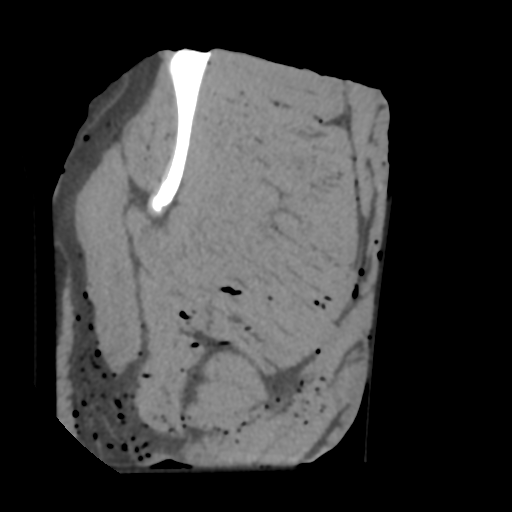
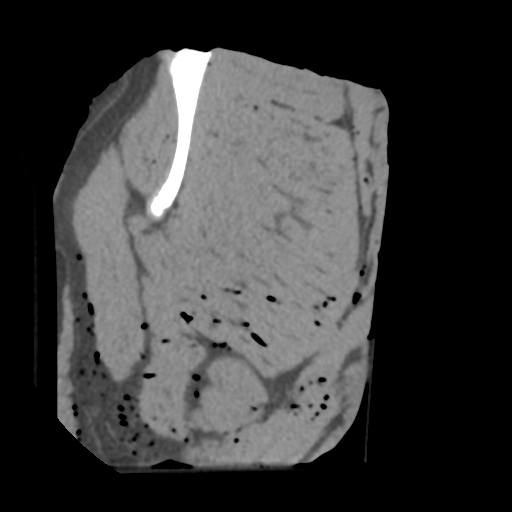
docs(ritk-snap): Record real DICOM series
Record the 409-slice browser run through merged Metis and Moirai bounds with actual orthogonal PNGs and exact provenance.

Item: RITK-SNAP-METIS-001

Refs: backlog.md#RITK-SNAP-METIS-001

diff --git a/crates/ritk-snap/src/render/slice_render.rs b/crates/ritk-snap/src/render/slice_render.rs
@@ -101,7 +101,7 @@ impl SliceRenderer {
     /// # Returns
     /// An [`egui::ColorImage`] of size `[width, height]` (see table above).
     /// This adapter is retained for the eframe host; Métis-facing consumers
-    /// use [`Self::render_rgba`] and receive no egui carrier.
+    /// use `render_rgba` and receive no egui carrier.
     pub fn render(
         volume: &LoadedVolume,
         axis: usize,

diff --git a/docs/manual/dicom-workflow.md b/docs/manual/dicom-workflow.md
@@ -367,33 +367,35 @@ a bounded programmatic `DataTransfer` in one Chromium host, so it demonstrates
 real DICOM decoding and browser presentation but does not close physical
 drag-and-drop, Firefox/WebKit, WebGPU or complete application-window capture.
 
-### Three orthogonal canvases from a bounded real series batch
+### Three orthogonal canvases from the complete bounded real series
 
-To exercise the orthogonal geometry with more than the nine-file smoke, the
-same page accepted the first 64 slices from the saved MRI-DIR series. This is
-the maximum file count admitted by the current Métis browser handoff. RITK
-decoded all 64 files and presented non-black pixels on every canvas after
-reading 33,823,992 bytes:
+To exercise the orthogonal geometry with the complete saved study, the same
+page accepted all 409 slices from the MRI-DIR series in one bounded browser
+`DataTransfer`. RITK decoded 216,156,416 bytes and presented non-black pixels
+on every canvas:
 
 | Canvas | Presented pixels | Non-black pixels |
 | --- | ---: | ---: |
-| axial | 512 × 512 | 125,458 |
-| coronal | 512 × 82 | 20,778 |
-| sagittal | 512 × 82 | 27,467 |
+| axial | 512 × 512 | 124,466 |
+| coronal | 512 × 409 | 106,343 |
+| sagittal | 512 × 409 | 140,317 |
 
-![Actual MRI-DIR CT axial frame from the 64-file browser batch](images/dicom-metis-real-browser-orthogonal-axial.png)
+![Actual MRI-DIR CT axial frame from the 409-file browser batch](images/dicom-metis-real-browser-orthogonal-axial.png)
 
-![Actual MRI-DIR CT coronal frame from the 64-file browser batch](images/dicom-metis-real-browser-orthogonal-coronal.png)
+![Actual MRI-DIR CT coronal frame from the 409-file browser batch](images/dicom-metis-real-browser-orthogonal-coronal.png)
 
-![Actual MRI-DIR CT sagittal frame from the 64-file browser batch](images/dicom-metis-real-browser-orthogonal-sagittal.png)
+![Actual MRI-DIR CT sagittal frame from the 409-file browser batch](images/dicom-metis-real-browser-orthogonal-sagittal.png)
 
 The run's source revisions, byte count, frame hashes and bounds are recorded
 in [`dicom-metis-real-browser-orthogonal.json`](images/dicom-metis-real-browser-orthogonal.json).
-Submitting all 409 slices in one browser drop was rejected before RITK loading
-with `Browser file drop exceeds the bounded file count`. That is an open
-bounded-ingress gap for complete browser studies; the native path above still
-loads the complete series. Closing the browser gap requires an explicit
-directory or multi-batch contract whose series assembly remains in RITK.
+The Métis/Moirai handoff admits at most 512 file entries and 256 MiB of file
+bytes; this public 409-slice study is within both bounds. The capture scope is
+the canvas pixels, excluding browser chrome. It demonstrates actual DICOM
+loading and orthogonal presentation in the Codex in-app Chromium host through
+a programmatic `DataTransfer`; physical drag-and-drop, Firefox/WebKit,
+WebGPU and complete application-window capture remain separate acceptance
+work. The public phantom data is the only committed image source; private
+clinical studies stay local.
 
 ## Build the RITK SNAP executable and installer
 

diff --git a/backlog.md b/backlog.md
@@ -105,7 +105,7 @@
 - Dependency portability increment: Consus HDF5's 32-bit WASM chunk-size threshold is fixed by [Consus PR #74](https://github.com/ryancinsight/consus/pull/74); native 290/290 nextest, strict Clippy, and a `wasm32-unknown-unknown` check pass.
 - Actual-data visual increment (2026-09-11): the native Métis surface was rerun with the public MRI-DIR CT DICOM series; the 1280 × 800 axial/coronal/sagittal capture is reviewed in [the user manual](docs/manual/dicom-workflow.md), with its SHA-256 recorded there. The CC BY 4.0 phantom data remains the only committed image source; private clinical studies stay local.
 - Actual-browser visual increment (2026-09-11): a Chromium host mounted the packaged `ritk_snap` WebAssembly module, accepted nine real MRI-DIR CT Part 10 files through Métis's bounded browser drop handoff, and presented non-black axial/coronal/sagittal canvases. The reviewed axial PNG and machine-readable provenance are [in the manual](docs/manual/dicom-workflow.md#inspect-an-actual-dicom-study-in-the-browser); physical drag-and-drop, Firefox/WebKit, WebGPU and full-window capture remain open.
-- Orthogonal browser increment (2026-09-11): the same Chromium workflow accepted the maximum 64-file bounded batch from the saved MRI-DIR series and produced reviewed axial, coronal and sagittal PNGs with machine-readable provenance. A 409-file single drop was rejected by Métis's explicit 64-file bound before RITK loading; complete browser studies therefore require a RITK-owned directory or multi-batch assembly contract. The native full-series path remains verified; this browser-ingress gap is open.
+- Full-series browser increment (2026-09-11, after merged Métis PR #75 (`be6235ab`) and Moirai PR #327 (`fd836cd1`)): the Codex Chromium workflow accepted all 409 saved MRI-DIR CT Part 10 files through the 512-entry, 256 MiB bounded handoff, read 216,156,416 bytes, and presented actual non-black axial (512 × 512; 124,466), coronal (512 × 409; 106,343), and sagittal (512 × 409; 140,317) canvases. The reviewed PNGs and hashes are in the manual provenance record; the public phantom remains the only committed image source. Physical drag-and-drop, Firefox/WebKit, WebGPU and complete-window capture remain open.
 
 <a id="RITK-SNAP-METIS-002"></a>
 ## RITK-SNAP-METIS-002 — Validate RITK browser semantic traces [arch] [minor]

diff --git a/docs/adr/0026-viewer-presentation-migration.md b/docs/adr/0026-viewer-presentation-migration.md
@@ -283,6 +283,23 @@ DICOM classification, byte loading, geometry, presentation policy and viewer
 state. GPU presentation, trusted cross-engine input and complete application
 window capture remain open acceptance work.
 
+Revision 2026-09-11 (full real browser series): the packaged RITK
+WASM library from `e4f7ad728` was served in the Codex in-app Chromium host
+with the Métis browser consumer at `be6235ab` and the merged Moirai browser
+provider at `fd836cd1`. The browser `DataTransfer` accepted all 409 public
+MRI-DIR CT Part 10 files, read 216,156,416 bytes, and presented actual
+non-black axial, coronal and sagittal canvases. The reviewed images are
+[`axial`](../manual/images/dicom-metis-real-browser-orthogonal-axial.png),
+[`coronal`](../manual/images/dicom-metis-real-browser-orthogonal-coronal.png),
+and
+[`sagittal`](../manual/images/dicom-metis-real-browser-orthogonal-sagittal.png);
+metrics and SHA-256 values are recorded in the adjacent JSON provenance.
+The 512-entry and 256 MiB bounds remain explicit. This closes the saved
+study's browser-ingress gap while physical drag-and-drop, Firefox/WebKit,
+WebGPU and complete application-window capture remain open. DICOM parsing,
+metadata, geometry, decoded pixels and viewer state remain in RITK; Métis and
+Moirai remain format-neutral transport and rendering providers.
+
 Revision 2026-09-08: [RITK-SNAP-DIRECTORY-001](../../backlog.md#RITK-SNAP-DIRECTORY-001)
 now validates the Explicit VR Little Endian DICOMDIR record sequence before
 membership is admitted. RecordInUseFlag, next/lower offsets, incoming-link

diff --git a/checklist.md b/checklist.md
@@ -60,8 +60,11 @@
       record the axial PNG and provenance in the manual, and retain the
       physical drag-and-drop and cross-engine gaps as open acceptance work.
 - [x] Repeat the browser canvas run with the maximum 64-file real MRI-DIR
-      batch, record all three orthogonal PNGs and provenance, and record the
-      409-file rejection as the open multi-batch browser-ingress gap.
+      batch, record all three orthogonal PNGs and provenance; this historical
+      count was superseded by the bounded full-series increment below.
+- [x] Repeat the browser canvas run with all 409 saved MRI-DIR files after the
+      Métis/Moirai bounds advance, record the actual orthogonal PNGs and
+      provenance, and retain physical/cross-engine/WebGPU/window gaps.
 
 ## FIX-DTI-VOLUME-FRAME [major][arch] — Preserve diffusion coordinate frames
 
